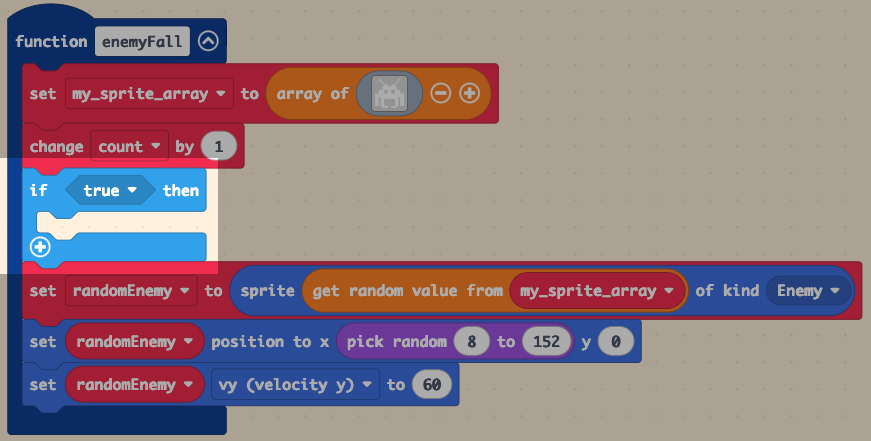
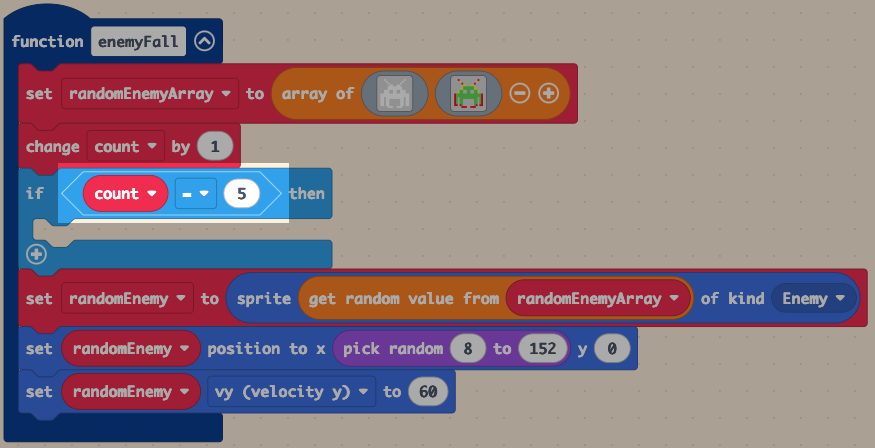
Update files

Changed region(s): [[0.0, 0.0, 0.992, 1.0], [0.062, 0.0, 0.093, 0.0295]]

diff --git a/docs/Levels/BGE/S3/Makecode Arcade/Space_Invaders/5.0_Adding_the_Bonus.md b/docs/Levels/BGE/S3/Makecode Arcade/Space_Invaders/5.0_Adding_the_Bonus.md
@@ -1,0 +1,125 @@
+# 👾 05 - Adding the Bonus
+
+=== "🕹 Introduction"
+
+    In this lesson, you’ll will start to make your game come alive. You will be learning how to make the enemy sprites fall using variables, an array, random and logic statements to make the enemy spawn at different places in your game screen.
+
+    You’ll learn how to:
+
+	* Use an __Array__ to store more than one __Sprite__.
+	* How to effectively us __Logic__ statements to make your game think independently.
+	* How to use __Random__ to keep the game fun by allowing tdifferent enemy to fall at __Random__ times
+
+    By the end of the lesson, your game will have enemys to fight against!
+
+=== "🧱 Building the Foundations"
+
+    🎯 Success Criteria:
+
+    Create a count check in our program to see if a bonus enemy should fall and give the player extra points.
+
+    ✅ Instructions
+
+    1 - Open MakeCode Arcade.
+
+    2 - Open your __Space Invaders__ project.
+
+    3 - In the __Logic__ section drag out __if true then__ and add it below the __change count by 1__ in your __enemyFall__ Function:
+
+    <figure markdown="span">
+    ![Image title](Images/05_01.png){ width="700" }
+    <figcaption></figcaption>
+    </figure>
+
+    4 - In the __Logic__ section drag out __Comparisson Block__ and add it to your __if true then__ block:
+
+    <figure markdown="span">
+    ![Image title](Images/05_02.png){ width="700" }
+    <figcaption></figcaption>
+    </figure>
+
+    5 - In the __Variables__ section select your __count__ variable and add it your comparison block: 
+
+    <figure markdown="span">
+    ![Image title](Images/05_03.png){ width="700" }
+    <figcaption></figcaption>
+    </figure>
+
+    🚨 Change the __0__ to __5__ on the other side
+
+    6 - Right click on on __set randomEnemy to__ and duplicate the block. Add this duplicated block to your __if.....then__ block:
+
+    <figure markdown="span">
+    ![Image title](Images/05_04.png){ width="700" }
+    <figcaption></figcaption>
+    </figure>
+
+    🚨 Change the __kind__ from __Enemy__ to __bonusKind__ by clicking on the little arrow and selecting __create new kind__
+
+
+    7 - From the __Sprites__ section find __My sprite say__ and add it below your __bonusKind__ block:
+
+    <figure markdown="span">
+    ![Image title](Images/05_05.png){ width="700" }
+    <figcaption></figcaption>
+    </figure>
+
+    🚨 Change __mySprite__  to __randomEnemy__ and change the smiley face to __Bonus Time__
+
+    8 - Click on the little __+__ sign at the bottom of your __if.......then__ block and move the __enemy__ kind block into it:
+
+    <figure markdown="span">
+    ![Image title](Images/05_06.png){ width="700" }
+    <figcaption></figcaption>
+    </figure>
+
+    9 - Now you need to duplicate all the code you have just created and add it your __on game update block__:
+
+    🚨 Make sure it looks exactly this or code will not __work__
+
+    <figure markdown="span">
+    ![Image title](Images/05_07.png){ width="700" }
+    <figcaption></figcaption>
+    </figure>
+
+    You will now be able to spawn random enemy in a controlled manner.
+
+=== "🎮 Turing" 
+
+    🎯 Success Criteria:
+    
+    Create a counter to for your game to see how many aliens have fallen
+
+    💡 - This will be needed in future lessons
+
+    ✅ Instructions:
+
+    1. Click on the little __+__ sign at the bottom of your __if.......then__ block and end more point checks. 
+
+    2. Make it say bonus at __10__, __15__ and __20__
+
+=== "👾 Hopper"    
+
+    🎯 Success Criteria: 
+    
+    Use the __modulo__ function to make your __bonus enemy__ fall whenever the __remainder__ of a __divisible__ calculation is __0__.
+
+    💡 __Modulo__ is a key component in computing programming.  Once you have mastered this, you can apply this technique to different arrays and different bonuses. 
+
+    ✅ Instructions:
+
+    1 - Using the blocks below, make your bonus enemy fall whenever your __count divided by 5 = 0 (doesn't have a remainder)__:
+
+    🚨 Note: you will need to change all claculations within your program or it will be break
+
+    <figure markdown="span">
+
+    ![Image title](Images/05_09.png){ width="700" }
+    
+    </figure>
+
+    
+    
+    
+
+[:octicons-arrow-left-24: Back](lessons.md){ .md-button }

diff --git a/docs/Levels/BGE/S3/Makecode Arcade/Space_Invaders/4.0_Spawning_Enemies.md b/docs/Levels/BGE/S3/Makecode Arcade/Space_Invaders/4.0_Spawning_Enemies.md
@@ -218,47 +218,21 @@
 === "👾 Hopper"    
 
     🎯 Success Criteria: 
-    
-    Add a another random enemy spawn to your game.
 
-    💡 When we spawn our enemies, the bonus enemies will generate more points or remove more lives🕹
+    Use the count function to change the firing sound when it is greater than five.
+
+    💡 
 
     ✅ Instructions:
 
-    1.  Duplicate the code blocks from __enemyFall__ that are missing from your __bonusEnemy__ function and add them to your __bonusEnemy__ function
-    
-    2.  Add another __if......then__ block to the __if......then__ block you have already created:
+    1 - Add these code blocks to your program:
 
     <figure markdown="span">
 
-    ![Image title](Images/04_19.png){ width="600" }
-    
-    </figure>
-    
-    3.  Using  the __count variable__ you have just created, see if you can work out how to make your __bonusEnemy__  fall when the __count variable__ reaches the number 5.
-
-    🚨 Hint: you will need one of these: 
-
-    <figure markdown="span">
-
-    ![Image title](Images/04_20.png){ width="200" }
+    ![Image title](Images/04_22.png){ width="450" }
     
     </figure>
 
-    🌶🌶🌶 Extra Challenge:
-
-    Using the blocks below make your bonus enemy fall whenever your __count divided by 5 = 0 (doesn't have a remainder)__:
-
-    <figure markdown="span">
-
-    ![Image title](Images/04_21.png){ width="200" }
     
-    </figure>
-
-    This is a __math function__ called __modulo__ 
-    
-    __Modulo__ is a key component in computing programming.
-
-    Once you have mastered this, you can apply this technique to different arrays and different bonuses. 
 
 [:octicons-arrow-left-24: Back](lessons.md){ .md-button }

diff --git a/docs/Levels/BGE/S3/Makecode Arcade/Space_Invaders/lessons.md b/docs/Levels/BGE/S3/Makecode Arcade/Space_Invaders/lessons.md
@@ -28,4 +28,10 @@
 
     [:octicons-arrow-right-24: Start Lesson](4.0_Spawning_Enemies.md)
 
+-   __05 - 👾🕹 Adding the Bonus__
+
+    ---
+
+    [:octicons-arrow-right-24: Start Lesson](5.0_Adding_the__Bonus.md)
+
 </div>
